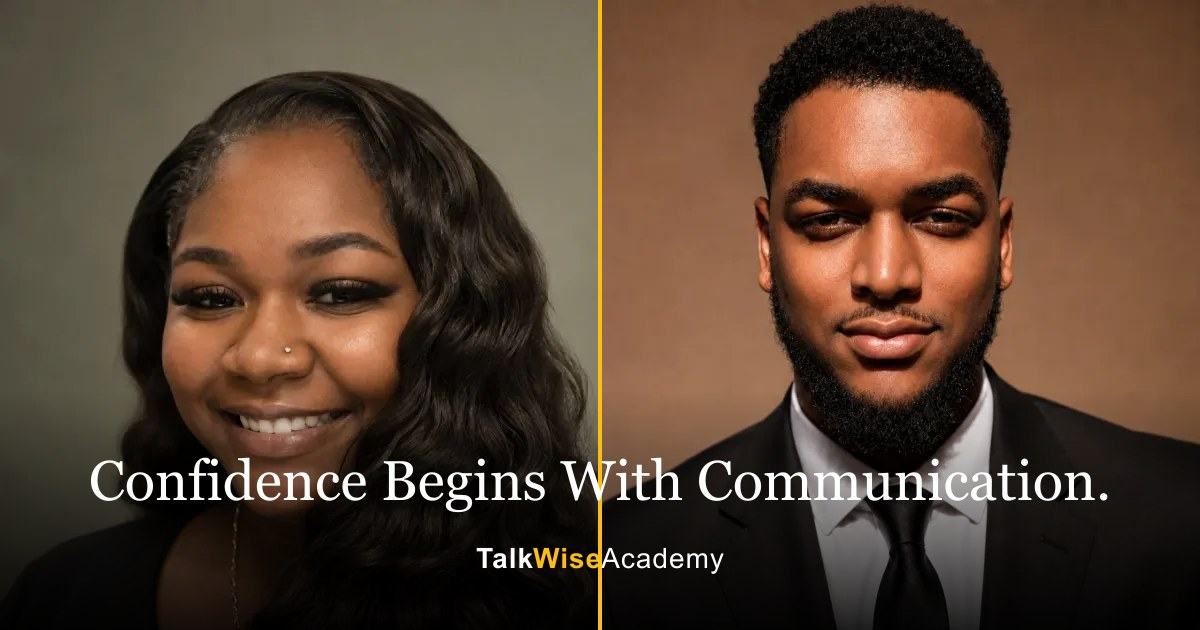
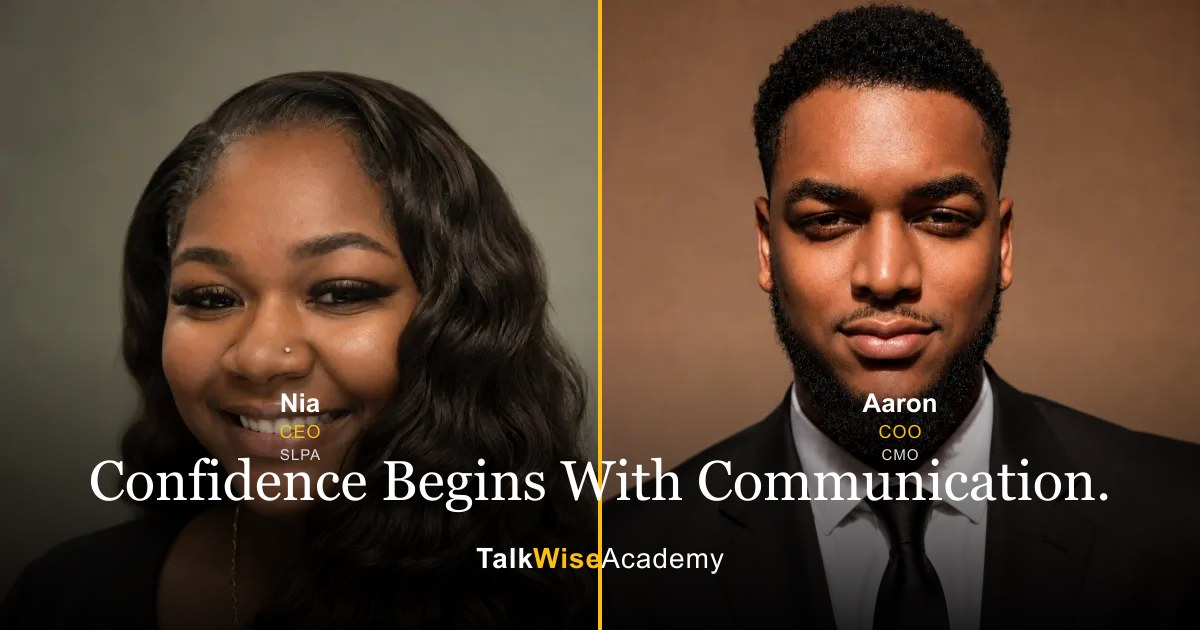
Add founder names and titles to the link-preview image

Changed region(s): [[0.7092, 0.573, 0.9558, 0.8143], [0.4933, 0.6032, 0.7092, 0.8143], [0.2158, 0.6032, 0.2775, 0.7238]]

diff --git a/scripts/build-og-image.js b/scripts/build-og-image.js
@@ -27,8 +27,23 @@ async function main() {
           <stop offset="100%" stop-color="#000000" stop-opacity="0.88"/>
         </linearGradient>
       </defs>
-      <rect x="0" y="${H - 240}" width="${W}" height="240" fill="url(#fade)"/>
+      <rect x="0" y="${H - 300}" width="${W}" height="300" fill="url(#fade)"/>
       <rect x="${HALF - 2}" y="0" width="4" height="${H}" fill="#FCBF11"/>
+
+      <text x="${HALF / 2}" y="${H - 218}" text-anchor="middle" font-family="Arial, sans-serif"
+            font-size="26" font-weight="700" fill="#FFFFFF">Nia</text>
+      <text x="${HALF / 2}" y="${H - 192}" text-anchor="middle" font-family="Arial, sans-serif"
+            font-size="18" letter-spacing="1" fill="#FCBF11">CEO</text>
+      <text x="${HALF / 2}" y="${H - 170}" text-anchor="middle" font-family="Arial, sans-serif"
+            font-size="15" letter-spacing="1" fill="#DDDDDD">SLPA</text>
+
+      <text x="${HALF + HALF / 2}" y="${H - 218}" text-anchor="middle" font-family="Arial, sans-serif"
+            font-size="26" font-weight="700" fill="#FFFFFF">Aaron</text>
+      <text x="${HALF + HALF / 2}" y="${H - 192}" text-anchor="middle" font-family="Arial, sans-serif"
+            font-size="18" letter-spacing="1" fill="#FCBF11">COO</text>
+      <text x="${HALF + HALF / 2}" y="${H - 170}" text-anchor="middle" font-family="Arial, sans-serif"
+            font-size="15" letter-spacing="1" fill="#DDDDDD">CMO</text>
+
       <text x="${W / 2}" y="${H - 130}" text-anchor="middle"
             font-family="Georgia, 'Times New Roman', serif" font-size="56" fill="#FFFFFF">
         Confidence Begins With Communication.
